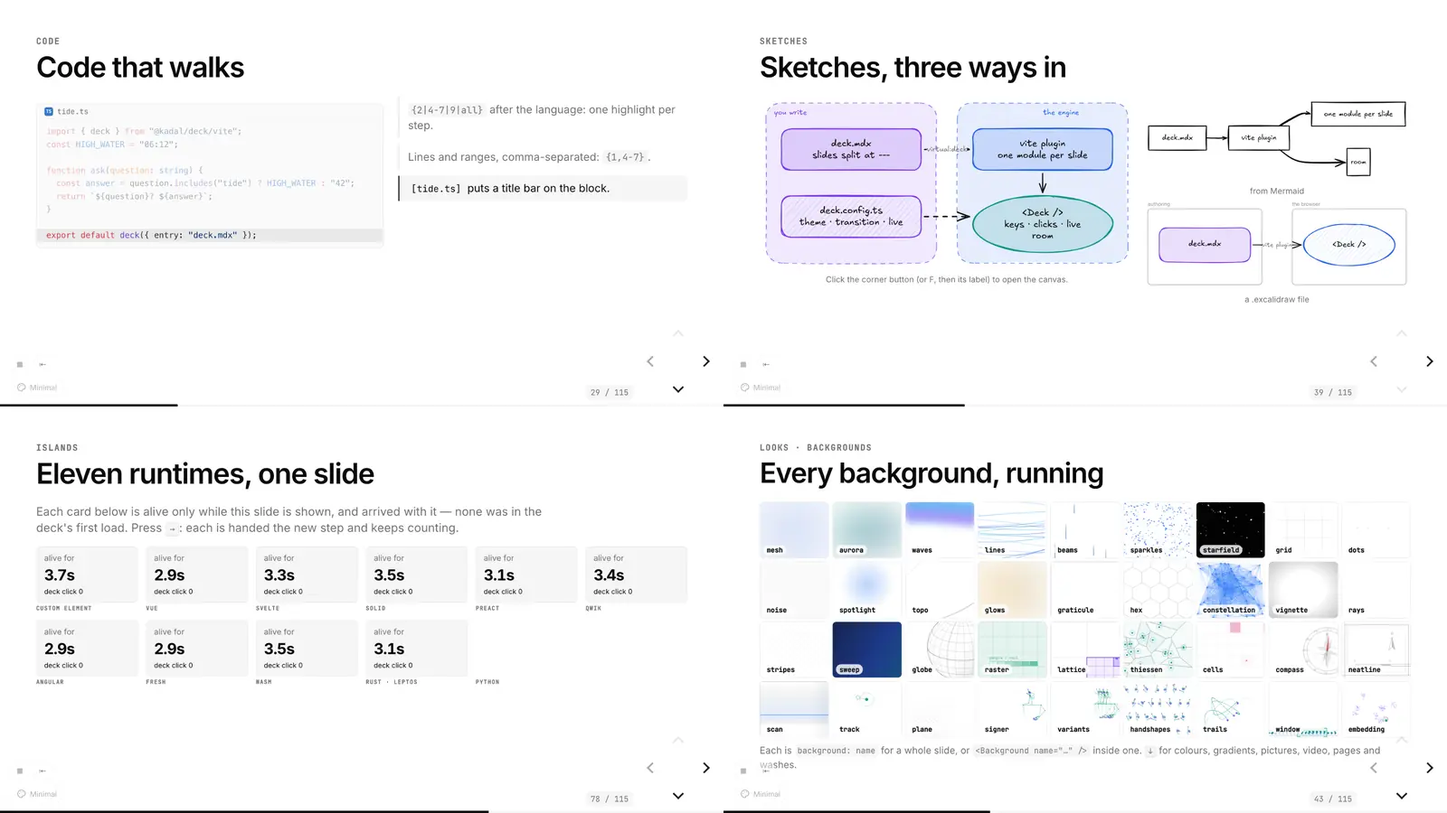
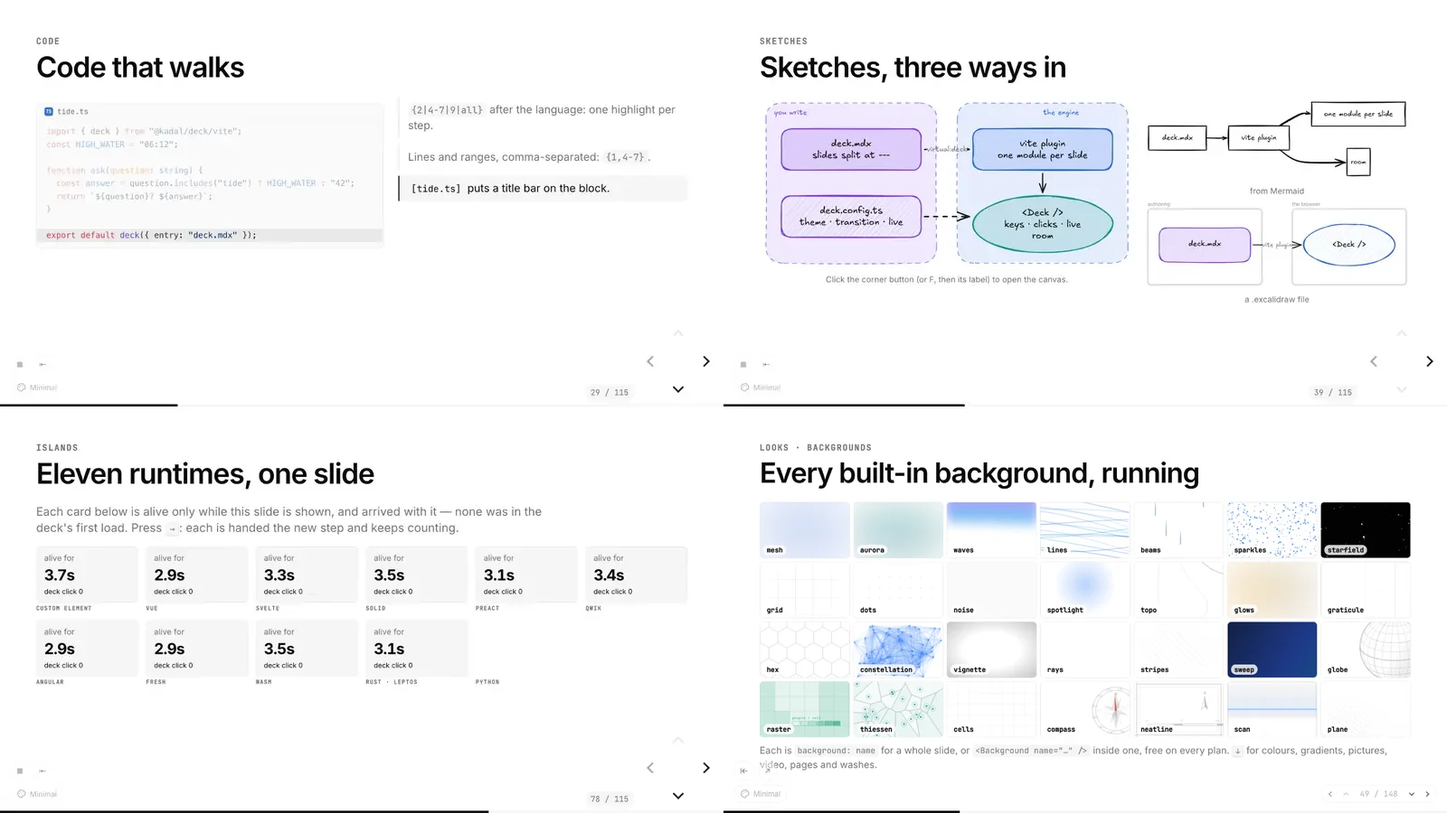
docs(deck): lead with the Pro library; a curated row of free backgrounds
The READMEs, the generated reference and the agent skill name the Pro
library (95 items, 15 genres; background: pro/<slug>, layout: pro/<slug>),
say plainly that it renders on Pro and Team decks on deck.kadal.cc and falls
back to the theme elsewhere, and show eight items from the public previews
(picture with the dark card on GitHub, plain light cards on npm) and six free
built-ins (.github/assets/backgrounds). The README pictures no longer show
the removed backgrounds. Changeset: minor, with the migration.

Changed region(s): [[0.5, 0.56, 1.0, 0.9644], [0.6562, 0.9956, 0.6875, 1.0]]

diff --git a/packages/deck/src/catalog/markdown.ts b/packages/deck/src/catalog/markdown.ts
@@ -62,6 +62,14 @@ const TITLES: Record<CatalogSection, string> = {
 };
 
 /** One section as Markdown, with a `##` heading (or `#` with `level: 1`). */
+/** The host's library, named wherever layouts and backgrounds are listed (react/premium.tsx). */
+const PRO_LIBRARY =
+  '**The Pro library.** `layout: pro/<slug>` and `background: pro/<slug>` (or `<Background name="pro/<slug>" />`) pick one of 95 items in 15 genres that deck.kadal.cc serves to decks published from a Pro or Team workspace; browse them at https://deck.kadal.cc/library/ (JSON: https://deck.kadal.cc/api/v1/library/catalog). On any other host or plan a `pro/` name falls back to the theme\'s own background and the `default` layout, so write the slide to read well either way.';
+
+/** What 0.6 took out, so an agent meeting an old deck knows why the name no longer resolves. */
+const REMOVED_NOTE =
+  "Removed in 0.6: `signer`, `variants`, `handshapes`, `trails`, `window`, `embedding`, `lattice` and `track`. A deck that needs one copies it from https://deck.kadal.cc/docs/backgrounds/#removed-in-06 into `src/components.tsx` and registers it with `registerBackground`.";
+
 export function sectionMarkdown(catalog: Catalog, section: CatalogSection, level = 2): string {
   const h = "#".repeat(level);
   const out: string[] = [`${h} ${TITLES[section]}`, ""];
@@ -104,11 +112,21 @@ export function sectionMarkdown(catalog: Catalog, section: CatalogSection, level
           `- **${l.name}** — ${l.summary}${l.keys.length ? ` Reads: ${l.keys.map(code).join(", ")}.` : ""}${l.slots.length ? ` Slots: ${l.slots.map((s) => code(`::${s}::`)).join(", ")}.` : ""}`,
         );
       }
-      out.push("", 'Custom layouts: add `"layout:name": Component` to `src/components.tsx`.', "");
+      out.push(
+        "",
+        'Custom layouts: add `"layout:name": Component` to `src/components.tsx`.',
+        "",
+        PRO_LIBRARY,
+        "",
+      );
       break;
     case "backgrounds": {
       out.push(
         "`background: <name>` in frontmatter, `{ component: <name>, ...props }` for props, or `<Background name>` in the slide. Colours are CSS strings; `rgba()` sets their weight. With a component, `color` is its stroke and `fill`/`tint` washes the layer.",
+        "",
+        PRO_LIBRARY,
+        "",
+        REMOVED_NOTE,
         "",
       );
       for (const fam of ["ambient", "quiet", "map", "plain"]) {

diff --git a/packages/deck/README.md b/packages/deck/README.md
@@ -180,6 +180,51 @@ compiler (`compileDeck` in `@kadal/deck/runtime`) takes the same options.
 
 **Slide hooks.** `useSlideEnter(fn)` and `useSlideLeave(fn)` (Slidev's `onSlideEnter` / `onSlideLeave`) run when a slide becomes, and stops being, the current one in that window — slides stay mounted while near, so mount is not "shown". They never fire for the presenter's next-step box, the overview, print or the audience's mirror, and StrictMode does not double them; an enter can return a cleanup that runs on leave.
 
+## Backgrounds and layouts
+
+**The Pro library.** 95 backgrounds and layouts in 15 genres — board-pack covers, KPI boards,
+magazine spreads, terminal covers, lecture outlines, synthwave grids, wedding invitations — each in
+light and dark, each wearing the deck's theme. `layout: pro/<slug>` or `background: pro/<slug>` (or
+`<Background name="pro/<slug>" />`) picks one:
+
+<table>
+<tr>
+<td align="center" width="25%"><a href="https://deck.kadal.cc/library/"><img src="https://deck.kadal.cc/api/v1/library/previews/exec-cover/card.webp" alt="Executive Cover, a Pro layout from the corporate genre" width="100%"></a><br><code>layout: pro/exec-cover</code></td>
+<td align="center" width="25%"><a href="https://deck.kadal.cc/library/"><img src="https://deck.kadal.cc/api/v1/library/previews/kpi-board/card.webp" alt="KPI Board, a Pro layout from the finance genre" width="100%"></a><br><code>layout: pro/kpi-board</code></td>
+<td align="center" width="25%"><a href="https://deck.kadal.cc/library/"><img src="https://deck.kadal.cc/api/v1/library/previews/pull-quote/card.webp" alt="Pull Quote, a Pro layout from the editorial genre" width="100%"></a><br><code>layout: pro/pull-quote</code></td>
+<td align="center" width="25%"><a href="https://deck.kadal.cc/library/"><img src="https://deck.kadal.cc/api/v1/library/previews/terminal-cover/card.webp" alt="Terminal Cover, a Pro layout from the developer genre" width="100%"></a><br><code>layout: pro/terminal-cover</code></td>
+</tr>
+<tr>
+<td align="center" width="25%"><a href="https://deck.kadal.cc/library/"><img src="https://deck.kadal.cc/api/v1/library/previews/neon-drift/card.webp" alt="Neon Drift, a Pro background from the gaming genre" width="100%"></a><br><code>background: pro/neon-drift</code></td>
+<td align="center" width="25%"><a href="https://deck.kadal.cc/library/"><img src="https://deck.kadal.cc/api/v1/library/previews/ridges/card.webp" alt="Ridges, a Pro background from the nature genre" width="100%"></a><br><code>background: pro/ridges</code></td>
+<td align="center" width="25%"><a href="https://deck.kadal.cc/library/"><img src="https://deck.kadal.cc/api/v1/library/previews/riso-shapes/card.webp" alt="Riso Shapes, a Pro background from the creative genre" width="100%"></a><br><code>background: pro/riso-shapes</code></td>
+<td align="center" width="25%"><a href="https://deck.kadal.cc/library/"><img src="https://deck.kadal.cc/api/v1/library/previews/breathe/card.webp" alt="Breathe, a Pro background from the health genre" width="100%"></a><br><code>background: pro/breathe</code></td>
+</tr>
+</table>
+
+The library renders on decks published to [deck.kadal.cc](https://deck.kadal.cc/pricing/) from a
+**Pro or Team** workspace: the host names where its items live (`window.__KADAL_DECK__.premium`) and
+the engine fetches an item when a slide first uses it. Anywhere else — a static build on your own
+host, or the free plan — nothing is fetched and a `pro/` name falls back to the theme's own
+background and the `default` layout, so the slide still reads; only an author (`kadal-deck dev`, a
+builder preview) sees a small chip saying the item is Pro. Every item: [deck.kadal.cc/library](https://deck.kadal.cc/library/).
+
+**Built in, free everywhere.** 28 backgrounds ship with the engine (listed under
+[Themes and looks](#themes-and-looks)). A few of them:
+
+<table>
+<tr>
+<td align="center" width="33%"><img src="https://raw.githubusercontent.com/kadalcc/deck/main/.github/assets/backgrounds/gradient-mesh.webp" alt="The gradient-mesh background: slow, drifting, blurred colour blobs" width="100%"><br><code>background: gradient-mesh</code></td>
+<td align="center" width="33%"><img src="https://raw.githubusercontent.com/kadalcc/deck/main/.github/assets/backgrounds/aurora.webp" alt="The aurora background: soft northern-lights bands" width="100%"><br><code>background: aurora</code></td>
+<td align="center" width="33%"><img src="https://raw.githubusercontent.com/kadalcc/deck/main/.github/assets/backgrounds/waves.webp" alt="The waves background: layered noise waves" width="100%"><br><code>background: waves</code></td>
+</tr>
+<tr>
+<td align="center" width="33%"><img src="https://raw.githubusercontent.com/kadalcc/deck/main/.github/assets/backgrounds/glows.webp" alt="The glows background: large slow glows of colour" width="100%"><br><code>background: glows</code></td>
+<td align="center" width="33%"><img src="https://raw.githubusercontent.com/kadalcc/deck/main/.github/assets/backgrounds/constellation.webp" alt="The constellation background: points joined to their near neighbours, drifting" width="100%"><br><code>background: constellation</code></td>
+<td align="center" width="33%"><img src="https://raw.githubusercontent.com/kadalcc/deck/main/.github/assets/backgrounds/globe.webp" alt="The globe background: a wire globe, turning slowly" width="100%"><br><code>background: globe</code></td>
+</tr>
+</table>
+
 ## Themes and looks
 
 `T` (or the palette button) opens the theme menu on every view — play, presenter, audience: all sixteen first-party themes, the deck's own first (`theme`, then `themes` in its order), and light or dark. `themes:` orders the menu rather than narrowing it: the themes a deck names load with it, and every first-party theme it does not name follows them, its stylesheet and layouts in a chunk of their own that loads only when someone picks it (or points at its row), so offering all sixteen adds nothing to the first paint. Each screen keeps its own choice per deck in the browser. Code follows the pick for the themes the deck names: each one's Shiki pair (`kadal.theme.shiki`) colours every block, magic move and Monaco editor while it is shown — the build highlights with each distinct pair those themes need, as CSS variables, so a deck whose named themes share one pair pays nothing. A theme the menu adds on its own keeps the deck's code colours; name it in `themes:` to give it its own.
@@ -198,7 +243,9 @@ compiler (`compileDeck` in `@kadal/deck/runtime`) takes the same options.
 
 **Fonts.** `fonts: ["Inter:wght@400;600"]` as before, or Slidev's object — `fonts: { sans: Inter, heading: Fraunces, mono: Fira Code, weights: "400,600", italic: true, provider: google | bunny | none, local: [Helvetica Neue] }` — which also points the theme's font tokens at the families. Exports wait for them.
 
-Backgrounds (`background: name` in frontmatter, `{ component, ...props }` for props, or `<Background name>` inside a slide): mesh, aurora, waves, lines, beams, sparkles, starfield, grid, dots, noise, spotlight, the quieter set — topo (contours, with index lines), glows, graticule, hex, constellation, vignette, rays, stripes, sweep — and the map room: **globe** (a wire globe off to one side, turning slowly, day and night sides), **lattice** (a grid zooming into one cell three levels deep), **thiessen** (drifting seeds under their Voronoi polygons), **cells** (reports landing on a lattice, rippling, going dark), **compass** (a rose with its degree ring turning), **neatline** (a map sheet's frame with coordinate ticks, north arrow and scale bar), **scan** (a graticule swept by a satellite pass), **track** (a GPS trail with a pulsing head), **raster** (a choropleth of cells classed by a drifting field, with its legend), **plane** (a dotted ground plane in oblique projection — the lattice an exploded figure stands on — with surveyor's control points at every `major`-th point, thinning toward a `horizon` and away from `focus` so words beside the figure sit on clean paper, and one slow glint crossing it; a figure that carries `data-plane="origin"` and `data-plane="unit"` marks has the floor locked onto it, point for point, at any size). All pause off-slide and hold a still frame under reduced motion; colours are CSS strings, so `rgba()` sets their weight. With a component, `color` is the component's stroke and `fill` (or `tint`) washes the layer behind it — a soft diagonal gradient of that one colour, strongest top-left, never a flat block (`background: { component: topo, color: "rgba(5,150,105,0.55)", fill: "rgba(5,150,105,0.12)" }`); `tint:` alone does the same on a slide without a component, where plain `color:` stays flat.
+Built-in backgrounds (`background: name` in frontmatter, `{ component, ...props }` for props, or `<Background name>` inside a slide): mesh, aurora, waves, lines, beams, sparkles, starfield, grid, dots, noise, spotlight, the quieter set — topo (contours, with index lines), glows, graticule, hex, constellation, vignette, rays, stripes, sweep — and a few for talks about places: **globe** (a wire globe off to one side, turning slowly, day and night sides), **thiessen** (drifting seeds under their Voronoi polygons), **cells** (reports landing on a grid, rippling, going dark), **compass** (a rose with its degree ring turning), **neatline** (a map sheet's frame with coordinate ticks, north arrow and scale bar), **scan** (a graticule swept by a satellite pass), **raster** (a choropleth of cells classed by a drifting field, with its legend), **plane** (a dotted ground plane in oblique projection for an exploded figure — with surveyor's control points at every `major`-th point, thinning toward a `horizon` and away from `focus` so words beside the figure sit on clean paper, and one slow glint crossing it; a figure that carries `data-plane="origin"` and `data-plane="unit"` marks has the floor locked onto it, point for point, at any size). All pause off-slide and hold a still frame under reduced motion; colours are CSS strings, so `rgba()` sets their weight. With a component, `color` is the component's stroke and `fill` (or `tint`) washes the layer behind it — a soft diagonal gradient of that one colour, strongest top-left, never a flat block (`background: { component: topo, color: "rgba(5,150,105,0.55)", fill: "rgba(5,150,105,0.12)" }`); `tint:` alone does the same on a slide without a component, where plain `color:` stays flat. The [Pro library](#backgrounds-and-layouts) adds 95 more on deck.kadal.cc.
+
+**Removed in 0.6.** The six sign-language backgrounds (`signer`, `variants`, `handshapes`, `trails`, `window`, `embedding`) and the map room's `lattice` and `track` are no longer in the engine. A deck that still names one shows the theme's background when published and an "Unknown background" notice, with a link, in `kadal-deck dev`; to keep one, copy its source from [the docs](https://deck.kadal.cc/docs/backgrounds/#removed-in-06) into your deck and register it with `registerBackground` in `src/components.tsx`.
 
 Bling components, all reading the theme's tokens: `<GradientText>`, `<Glass tone glow>`, `<Glow>`, `<Chip tone icon>`, `<Icon name>` (any Lucide icon, or Iconify's `set:name`), `<Divider label>`, `<Ribbon>`, `<Halo>`, `<Shimmer>`, `<Blob>`, `<Tilt>`. Tones: accent, accent-2, good, warn, bad, info, neutral, purple, pink, amber, teal.
 

diff --git a/README.md b/README.md
@@ -26,6 +26,7 @@
   <a href="https://deck.kadal.cc/docs/">Docs</a> ·
   <a href="https://deck.kadal.cc/tour/">Live tour</a> ·
   <a href="https://deck.kadal.cc/themes/">Themes</a> ·
+  <a href="https://deck.kadal.cc/library/">Pro library</a> ·
   <a href="https://deck.kadal.cc/pricing/">Hosting</a> ·
   <a href="https://deck.kadal.cc/changelog/">Changelog</a>
 </p>
@@ -92,7 +93,7 @@ report of anything that didn't carry over.
 | **Clicks and motion** ([docs](https://deck.kadal.cc/docs/clicks-and-animation/)) | `<Click>`, `<Clicks>`, `at="+2"`, notes that follow your clicks, 7 transitions (a different one in and out if you like), auto-animate, `<Motion>` |
 | **Code** ([docs](https://deck.kadal.cc/docs/code/)) | Shiki highlighting stepped line by line, magic move, Monaco editors, runnable JS/TS/Python, TwoSlash hovers, code groups, snippet imports |
 | **Maths, diagrams, sketches** ([docs](https://deck.kadal.cc/docs/math-diagrams-sketches/)) | KaTeX at build time, Mermaid in the deck's colours, Excalidraw drawings revealed region by region |
-| **Looks** ([docs](https://deck.kadal.cc/docs/themes-and-backgrounds/)) | 16 themes in light and dark, 42 backgrounds (most of them animated), 200,000 icons through Iconify, Tailwind |
+| **Looks** ([docs](https://deck.kadal.cc/docs/themes-and-backgrounds/)) | 16 themes in light and dark, 28 built-in backgrounds (most of them animated), the [Pro library](#backgrounds-and-layouts) of 95 backgrounds and layouts on deck.kadal.cc, 200,000 icons through Iconify, Tailwind |
 | **Any framework** ([docs](https://deck.kadal.cc/docs/islands/)) | React and web components built in; Vue, Svelte, Solid, Preact, Qwik, Angular, Fresh, Rust/WebAssembly and Python as islands, each loaded only when its slide appears |
 | **Presenting** ([docs](https://deck.kadal.cc/docs/presenter-and-keyboard/)) | Presenter view with notes, timer and next slide; drawing, laser, spotlight, blackout, camera, recording; a share window for video calls; a phone remote; vim keys |
 | **The live room** ([docs](https://deck.kadal.cc/docs/live-room/)) | The audience follows on their phones: reactions, questions with upvotes, polls, word clouds, timed quizzes, a pace dial and a raised hand |
@@ -108,6 +109,57 @@ report of anything that didn't carry over.
 <tr>
 <td valign="top">Notes that highlight with each click, the next step, a timer with pacing and every tool on one screen. Press <kbd>S</kbd> in any deck.</td>
 <td valign="top">Scan the QR code: no app, no account. The slide stays in step with you, or roams ahead and catches up.</td>
+</tr>
+</table>
+
+## Backgrounds and layouts
+
+**The Pro library.** 95 backgrounds and layouts in 15 genres — board-pack covers, KPI boards,
+magazine spreads, terminal covers, lecture outlines, synthwave grids, wedding invitations — each in
+light and dark, each wearing your deck's theme. One line of frontmatter picks one:
+
+```yaml
+---
+layout: pro/kpi-board
+background: pro/neon-drift
+---
+```
+
+<table>
+<tr>
+<td align="center" width="25%"><a href="https://deck.kadal.cc/library/"><picture><source media="(prefers-color-scheme: dark)" srcset="https://deck.kadal.cc/api/v1/library/previews/exec-cover/card-dark.webp"><img src="https://deck.kadal.cc/api/v1/library/previews/exec-cover/card.webp" alt="Executive Cover, a Pro layout from the corporate genre" width="100%"></picture></a><br><code>layout: pro/exec-cover</code></td>
+<td align="center" width="25%"><a href="https://deck.kadal.cc/library/"><picture><source media="(prefers-color-scheme: dark)" srcset="https://deck.kadal.cc/api/v1/library/previews/kpi-board/card-dark.webp"><img src="https://deck.kadal.cc/api/v1/library/previews/kpi-board/card.webp" alt="KPI Board, a Pro layout from the finance genre" width="100%"></picture></a><br><code>layout: pro/kpi-board</code></td>
+<td align="center" width="25%"><a href="https://deck.kadal.cc/library/"><picture><source media="(prefers-color-scheme: dark)" srcset="https://deck.kadal.cc/api/v1/library/previews/pull-quote/card-dark.webp"><img src="https://deck.kadal.cc/api/v1/library/previews/pull-quote/card.webp" alt="Pull Quote, a Pro layout from the editorial genre" width="100%"></picture></a><br><code>layout: pro/pull-quote</code></td>
+<td align="center" width="25%"><a href="https://deck.kadal.cc/library/"><picture><source media="(prefers-color-scheme: dark)" srcset="https://deck.kadal.cc/api/v1/library/previews/terminal-cover/card-dark.webp"><img src="https://deck.kadal.cc/api/v1/library/previews/terminal-cover/card.webp" alt="Terminal Cover, a Pro layout from the developer genre" width="100%"></picture></a><br><code>layout: pro/terminal-cover</code></td>
+</tr>
+<tr>
+<td align="center" width="25%"><a href="https://deck.kadal.cc/library/"><picture><source media="(prefers-color-scheme: dark)" srcset="https://deck.kadal.cc/api/v1/library/previews/neon-drift/card-dark.webp"><img src="https://deck.kadal.cc/api/v1/library/previews/neon-drift/card.webp" alt="Neon Drift, a Pro background from the gaming genre" width="100%"></picture></a><br><code>background: pro/neon-drift</code></td>
+<td align="center" width="25%"><a href="https://deck.kadal.cc/library/"><picture><source media="(prefers-color-scheme: dark)" srcset="https://deck.kadal.cc/api/v1/library/previews/ridges/card-dark.webp"><img src="https://deck.kadal.cc/api/v1/library/previews/ridges/card.webp" alt="Ridges, a Pro background from the nature genre" width="100%"></picture></a><br><code>background: pro/ridges</code></td>
+<td align="center" width="25%"><a href="https://deck.kadal.cc/library/"><picture><source media="(prefers-color-scheme: dark)" srcset="https://deck.kadal.cc/api/v1/library/previews/riso-shapes/card-dark.webp"><img src="https://deck.kadal.cc/api/v1/library/previews/riso-shapes/card.webp" alt="Riso Shapes, a Pro background from the creative genre" width="100%"></picture></a><br><code>background: pro/riso-shapes</code></td>
+<td align="center" width="25%"><a href="https://deck.kadal.cc/library/"><picture><source media="(prefers-color-scheme: dark)" srcset="https://deck.kadal.cc/api/v1/library/previews/breathe/card-dark.webp"><img src="https://deck.kadal.cc/api/v1/library/previews/breathe/card.webp" alt="Breathe, a Pro background from the health genre" width="100%"></picture></a><br><code>background: pro/breathe</code></td>
+</tr>
+</table>
+
+The library renders on decks published to [deck.kadal.cc](https://deck.kadal.cc/pricing/) from a
+**Pro or Team** workspace. Anywhere else — a static build on your own host, or the free plan — a
+`pro/` name falls back to the theme's own background and the default layout, so the slide still
+reads; only the dev server says why, in a small chip. Every item, moving, in light and dark:
+[deck.kadal.cc/library](https://deck.kadal.cc/library/).
+
+**Built in, free everywhere.** 28 backgrounds ship with the engine — `background: aurora`, or
+`<Background name="aurora" />` inside a slide — most of them animated, all paused off-slide and
+still under reduced motion. A few of them:
+
+<table>
+<tr>
+<td align="center" width="33%"><picture><source media="(prefers-color-scheme: dark)" srcset=".github/assets/backgrounds/gradient-mesh-dark.webp"><img src=".github/assets/backgrounds/gradient-mesh.webp" alt="The gradient-mesh background: slow, drifting, blurred colour blobs" width="100%"></picture><br><code>background: gradient-mesh</code></td>
+<td align="center" width="33%"><picture><source media="(prefers-color-scheme: dark)" srcset=".github/assets/backgrounds/aurora-dark.webp"><img src=".github/assets/backgrounds/aurora.webp" alt="The aurora background: soft northern-lights bands" width="100%"></picture><br><code>background: aurora</code></td>
+<td align="center" width="33%"><picture><source media="(prefers-color-scheme: dark)" srcset=".github/assets/backgrounds/waves-dark.webp"><img src=".github/assets/backgrounds/waves.webp" alt="The waves background: layered noise waves" width="100%"></picture><br><code>background: waves</code></td>
+</tr>
+<tr>
+<td align="center" width="33%"><picture><source media="(prefers-color-scheme: dark)" srcset=".github/assets/backgrounds/glows-dark.webp"><img src=".github/assets/backgrounds/glows.webp" alt="The glows background: large slow glows of colour" width="100%"></picture><br><code>background: glows</code></td>
+<td align="center" width="33%"><picture><source media="(prefers-color-scheme: dark)" srcset=".github/assets/backgrounds/constellation-dark.webp"><img src=".github/assets/backgrounds/constellation.webp" alt="The constellation background: points joined to their near neighbours, drifting" width="100%"></picture><br><code>background: constellation</code></td>
+<td align="center" width="33%"><picture><source media="(prefers-color-scheme: dark)" srcset=".github/assets/backgrounds/globe-dark.webp"><img src=".github/assets/backgrounds/globe.webp" alt="The globe background: a wire globe, turning slowly" width="100%"></picture><br><code>background: globe</code></td>
 </tr>
 </table>
 

diff --git a/packages/deck/REFERENCE.md b/packages/deck/REFERENCE.md
@@ -28,6 +28,8 @@ Pick one with `layout: <name>` in a slide's frontmatter.
 
 Custom layouts: add `"layout:name": Component` to `src/components.tsx`.
 
+**The Pro library.** `layout: pro/<slug>` and `background: pro/<slug>` (or `<Background name="pro/<slug>" />`) pick one of 95 items in 15 genres that deck.kadal.cc serves to decks published from a Pro or Team workspace; browse them at https://deck.kadal.cc/library/ (JSON: https://deck.kadal.cc/api/v1/library/catalog). On any other host or plan a `pro/` name falls back to the theme's own background and the `default` layout, so write the slide to read well either way.
+
 ## Components
 
 Every component below works in any slide without an import. Your own go in `src/components.tsx`.
@@ -1410,6 +1412,10 @@ Links glossary mentions inside a plain string at render time — for words that 
 ## Backgrounds
 
 `background: <name>` in frontmatter, `{ component: <name>, ...props }` for props, or `<Background name>` in the slide. Colours are CSS strings; `rgba()` sets their weight. With a component, `color` is its stroke and `fill`/`tint` washes the layer.
+
+**The Pro library.** `layout: pro/<slug>` and `background: pro/<slug>` (or `<Background name="pro/<slug>" />`) pick one of 95 items in 15 genres that deck.kadal.cc serves to decks published from a Pro or Team workspace; browse them at https://deck.kadal.cc/library/ (JSON: https://deck.kadal.cc/api/v1/library/catalog). On any other host or plan a `pro/` name falls back to the theme's own background and the `default` layout, so write the slide to read well either way.
+
+Removed in 0.6: `signer`, `variants`, `handshapes`, `trails`, `window`, `embedding`, `lattice` and `track`. A deck that needs one copies it from https://deck.kadal.cc/docs/backgrounds/#removed-in-06 into `src/components.tsx` and registers it with `registerBackground`.
 
 ### Ambient
 

diff --git a/skills/kadal-deck/references/layouts-and-backgrounds.md b/skills/kadal-deck/references/layouts-and-backgrounds.md
@@ -28,9 +28,15 @@ Pick one with `layout: <name>` in a slide's frontmatter.
 
 Custom layouts: add `"layout:name": Component` to `src/components.tsx`.
 
+**The Pro library.** `layout: pro/<slug>` and `background: pro/<slug>` (or `<Background name="pro/<slug>" />`) pick one of 95 items in 15 genres that deck.kadal.cc serves to decks published from a Pro or Team workspace; browse them at https://deck.kadal.cc/library/ (JSON: https://deck.kadal.cc/api/v1/library/catalog). On any other host or plan a `pro/` name falls back to the theme's own background and the `default` layout, so write the slide to read well either way.
+
 ## Backgrounds
 
 `background: <name>` in frontmatter, `{ component: <name>, ...props }` for props, or `<Background name>` in the slide. Colours are CSS strings; `rgba()` sets their weight. With a component, `color` is its stroke and `fill`/`tint` washes the layer.
+
+**The Pro library.** `layout: pro/<slug>` and `background: pro/<slug>` (or `<Background name="pro/<slug>" />`) pick one of 95 items in 15 genres that deck.kadal.cc serves to decks published from a Pro or Team workspace; browse them at https://deck.kadal.cc/library/ (JSON: https://deck.kadal.cc/api/v1/library/catalog). On any other host or plan a `pro/` name falls back to the theme's own background and the `default` layout, so write the slide to read well either way.
+
+Removed in 0.6: `signer`, `variants`, `handshapes`, `trails`, `window`, `embedding`, `lattice` and `track`. A deck that needs one copies it from https://deck.kadal.cc/docs/backgrounds/#removed-in-06 into `src/components.tsx` and registers it with `registerBackground`.
 
 ### Ambient
 

diff --git a/.changeset/curated-backgrounds.md b/.changeset/curated-backgrounds.md
@@ -1,0 +1,12 @@
+---
+"@kadal/deck": minor
+"@kadal/deck-shell": minor
+---
+
+Eight backgrounds are removed: the six sign-language ones (`signer`, `variants`, `handshapes`, `trails`, `window`, `embedding`) and the map backgrounds `lattice` and `track`. Each was drawn for one talk and is too particular for the engine. The other 28 built-in backgrounds are unchanged.
+
+If your deck uses one, copy it into your deck: take its source from https://deck.kadal.cc/docs/backgrounds/#removed-in-06, put it in `src/components.tsx` (or a file beside it) and register it under the same name with `registerBackground("signer", Signer)` from `@kadal/deck`. The slide then looks exactly as before. Until you do, a published deck shows the theme's own background on that slide, and `kadal-deck dev`, a builder preview and `kadal-deck check` say the name was removed in 0.6 and link to the source.
+
+An unknown background name no longer shows its red "Unknown background" notice in a published deck: the slide keeps the theme's background, as it does for a `pro/` item it cannot load. The notice still shows to the author on the dev server and in a builder preview.
+
+The READMEs, the reference and the agent skill now lead with the Pro library — 95 backgrounds and layouts in 15 genres (`background: pro/<slug>`, `layout: pro/<slug>`), rendered on decks published to deck.kadal.cc from a Pro or Team workspace and falling back to the theme's background and the default layout anywhere else — and show a few of the free built-in backgrounds.

diff --git a/skills/kadal-deck/references/design-guide.md b/skills/kadal-deck/references/design-guide.md
@@ -29,6 +29,11 @@ the three seconds after it appears.
 - Contrast first: dark text on light or light on dark; check both schemes if the deck allows the
   theme menu (`kadal-deck screenshot --scheme dark`). Animated backgrounds are ambience — keep
   text off their brightest parts, lower their opacity (`rgba()` colours) or tint the layer.
+- A finished look in one line: the Pro library (`layout: pro/<slug>`, `background: pro/<slug>`,
+  95 items in 15 genres — covers, agendas, KPI boards, quotes, galleries) renders on decks
+  published to deck.kadal.cc from a Pro or Team workspace. Elsewhere it falls back to the theme's
+  background and the default layout, so check the slide still reads in `kadal-deck dev`. Use it
+  only when the user publishes there; otherwise pick a built-in background.
 - Images: large, relevant, with `alt` text. `layout: image-right` + a short point on the left
   beats a small picture under bullets.
 - Diagrams: `<Mermaid>` or `<Sketch>` with `steps` to tour a system one region per click.
